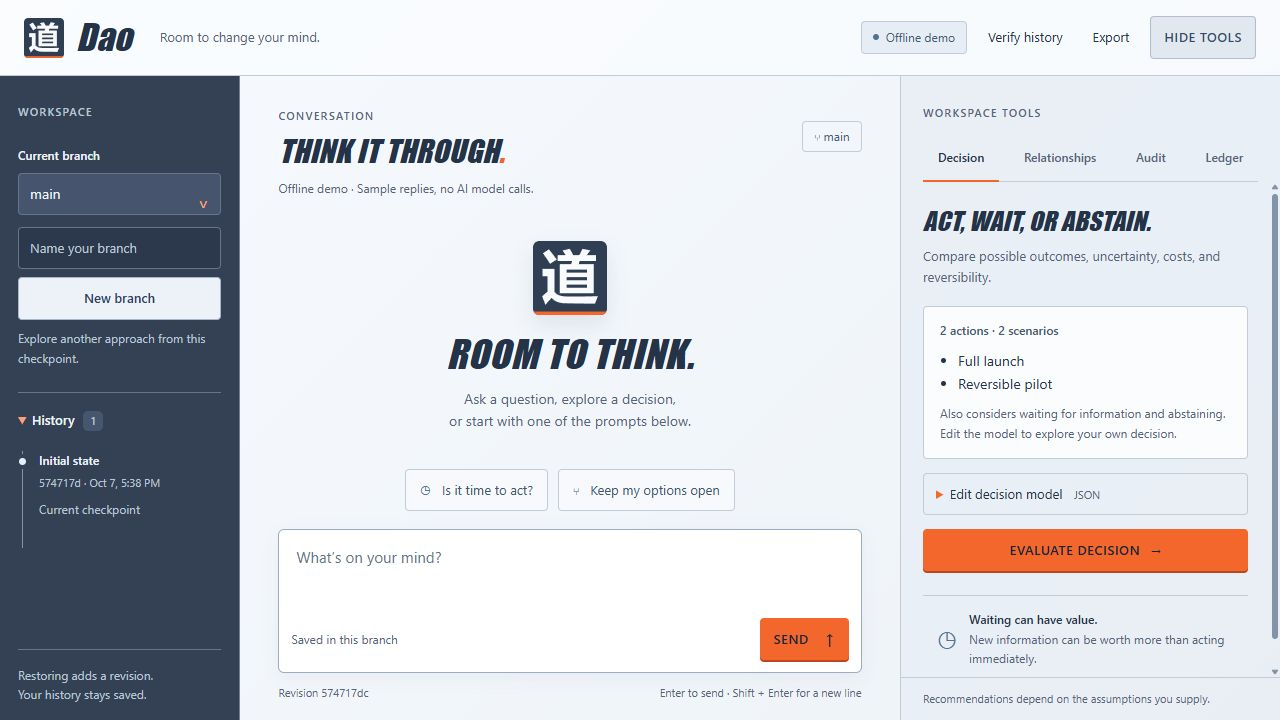
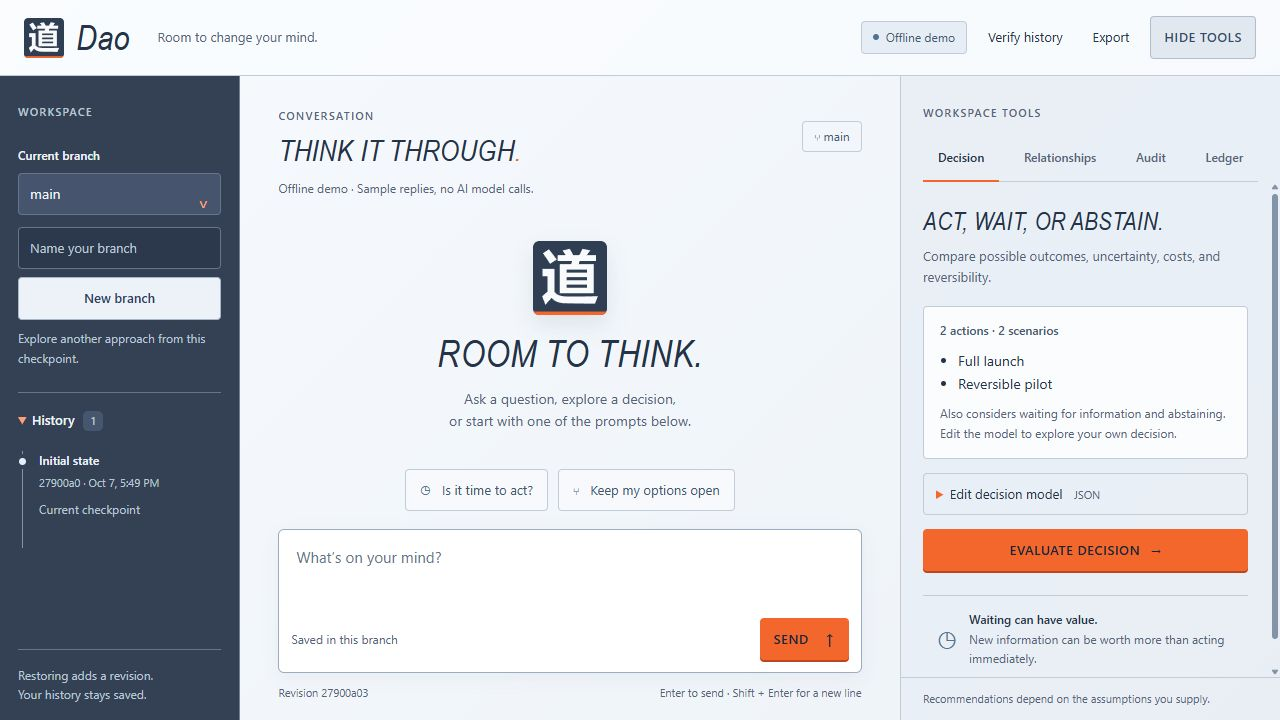
Use regular-weight display typography

diff --git a/dao/static/style.css b/dao/static/style.css
@@ -1,4 +1,4 @@
-/* Dao workspace: cool panels, strong headings, and restrained orange controls. */
+/* Dao workspace: cool panels, light headings, and restrained orange controls. */
 :root {
   color-scheme: light;
   --bg: #e4ebf2;
@@ -12,7 +12,7 @@
   --accent-text: #a63a12;
   --ink: #18243a;
   --danger: #942c3a;
-  --heading: Impact, 'Arial Narrow', 'Segoe UI', Arial, sans-serif;
+  --heading: 'Arial Narrow', 'Segoe UI', Arial, sans-serif;
   --sans: 'Segoe UI', Inter, Arial, sans-serif;
 }
 * { box-sizing: border-box; }
